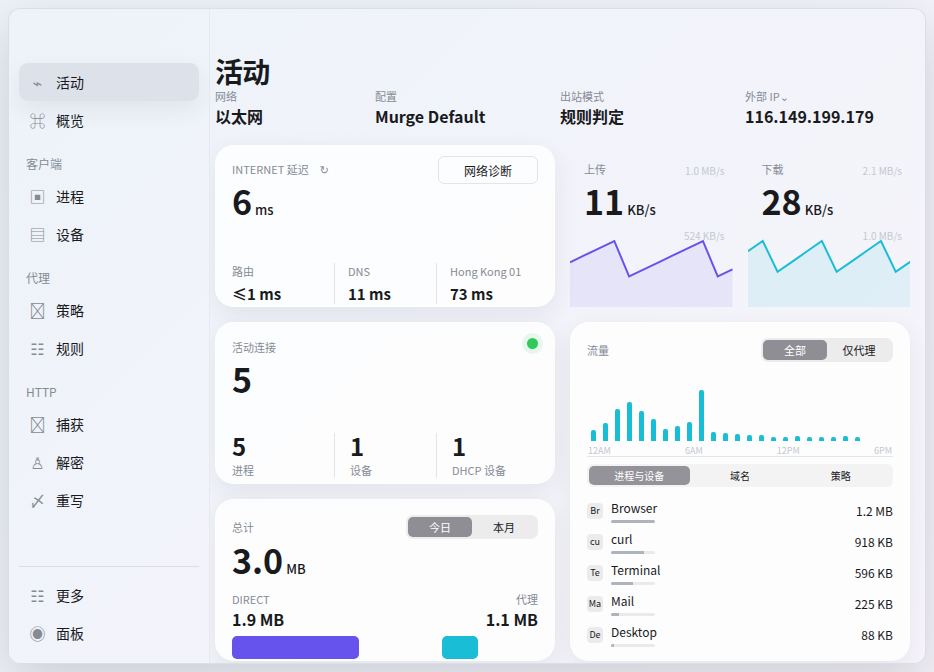
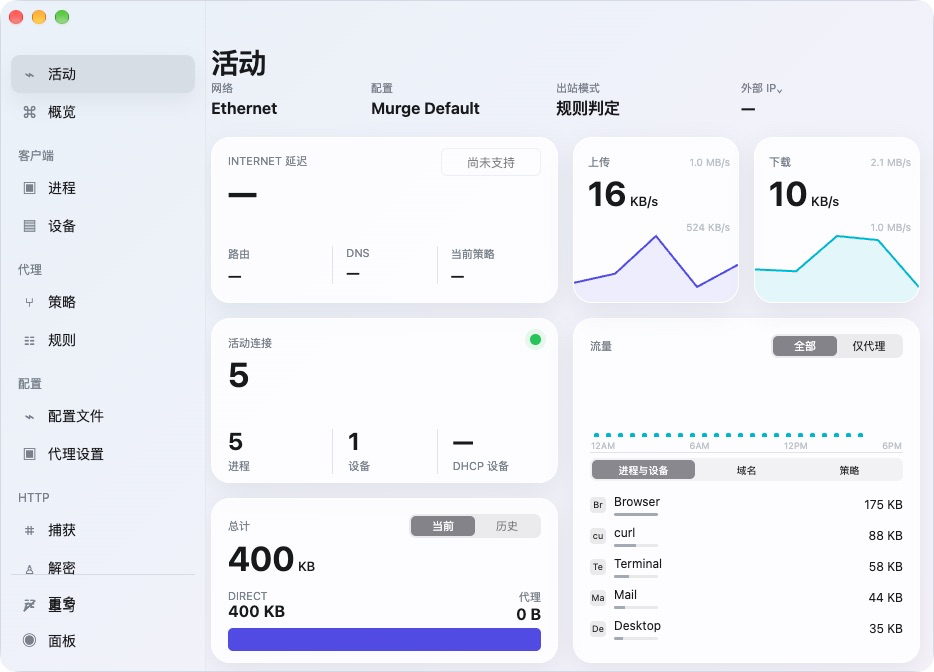
fix(activity): align window and dashboard to Surge

diff --git a/docs/screenshots/activity-comparison.html b/docs/screenshots/activity-comparison.html
@@ -1,116 +1,45 @@
 <!doctype html>
-<html lang="en">
+<html lang="zh-CN">
 <head>
-<meta charset="utf-8">
-<title>Activity 934x672 — implementation vs reference (follow-up fix)</title>
-<style>
-  body { margin:0; padding:24px; background:#f2f3f5; color:#18191c; font:14px/1.5 "Segoe UI",system-ui,sans-serif; }
-  .wrap { max-width:2040px; margin:0 auto; }
-  h1 { font-size:19px; margin:0 0 4px; }
-  .sub { color:#5b6472; margin:0 0 18px; }
-  .pair { display:flex; gap:16px; flex-wrap:wrap; }
-  .col { flex:1 1 934px; min-width:0; }
-  .col h2 { font-size:14px; margin:0 0 8px; }
-  .col img { width:934px; height:672px; display:block; background:#fff; border:1px solid #d8dce3; border-radius:12px; box-shadow:0 12px 34px rgba(24,31,45,.12); }
-  .tag { display:inline-block; padding:2px 8px; border-radius:999px; font-size:12px; margin-left:8px; vertical-align:middle; }
-  .tag.impl { background:#e7e2ff; color:#4b3fd0; }
-  .tag.ref { background:#dff2e6; color:#1d7a3d; }
-  .panel { background:#fff; border:1px solid #e0e4ea; border-radius:12px; padding:18px 20px; margin-top:20px; box-shadow:0 8px 24px rgba(24,31,45,.06); }
-  h3 { font-size:15px; margin:0 0 12px; }
-  table { border-collapse:collapse; width:100%; font-size:13px; }
-  th, td { border:1px solid #eceff3; padding:6px 9px; text-align:left; }
-  th { background:#f7f8fb; font-weight:600; }
-  td.n { text-align:right; }
-  ul.checks { list-style:none; padding:0; margin:0; }
-  ul.checks li { padding:6px 10px; border-radius:8px; margin-bottom:6px; background:#f7f8fb; }
-  ul.checks li.ok { background:#eef8f0; }
-  ul.checks li.bad { background:#fdecec; }
-  .det { color:#6b7280; font-size:12px; }
-  .burst { background:#eef4ff; border-radius:8px; padding:10px 12px; margin-top:12px; font-size:13px; }
-  .burst code { background:#e5eaf3; border-radius:4px; padding:1px 5px; font-size:12px; }
-  table.heat td.h { width:6.25%; text-align:center; font-size:11px; color:#333; }
-  .ok { color:#1d7a3d; } .warn { color:#b58900; }
-  .gridwrap { display:flex; gap:24px; flex-wrap:wrap; } .gridwrap > div { display:flex; gap:20px; flex-wrap:wrap; }
-  .note { color:#5b6472; font-size:12px; margin-top:8px; }
-</style>
+  <meta charset="utf-8">
+  <meta name="viewport" content="width=device-width,initial-scale=1">
+  <title>Activity 934×672 — implementation vs reference</title>
+  <style>
+    * { box-sizing: border-box; }
+    body { margin: 0; padding: 24px; color: #18191c; background: #f2f3f5; font: 14px/1.5 "Segoe UI", system-ui, sans-serif; }
+    main { max-width: 1920px; margin: auto; }
+    h1 { margin: 0 0 4px; font-size: 20px; }
+    p { margin: 0 0 18px; color: #626a76; }
+    .pair { display: grid; grid-template-columns: repeat(2, minmax(0, 934px)); gap: 16px; }
+    figure { margin: 0; }
+    figcaption { margin-bottom: 8px; font-weight: 600; }
+    img { display: block; width: 100%; aspect-ratio: 934 / 672; border: 1px solid #d8dce3; border-radius: 12px; background: white; }
+    section { margin-top: 20px; padding: 16px 18px; border: 1px solid #e0e4ea; border-radius: 12px; background: white; }
+    h2 { margin: 0 0 10px; font-size: 15px; }
+    li { margin: 5px 0; }
+    code { padding: 1px 5px; border-radius: 4px; background: #eef0f3; }
+    @media (max-width: 1200px) { .pair { grid-template-columns: 1fr; } }
+  </style>
 </head>
 <body>
-<div class="wrap">
-  <h1>Activity — 934&times;672 implementation vs norming reference</h1>
-  <p class="sub">Follow-up fix (commit <code>28b020c</code>): frame/margin geometry, activity-title bar, 8px outer margin, dashboard grid, and 总计 = DIRECT + 代理. Left: production build with live mock data. Right: owner-approved reference (auto-scaled to fit). Both captured at a 934&times;672 content viewport under Xvfb + Electron.</p>
+<main>
+  <h1>活动页 — 934×672 实现与规范参考</h1>
+  <p>左侧是 2026-08-28 在真实 Electron 窗口中使用安全 mock 数据采集的实现；右侧是不变的仓库规范参考。数值和曲线来自不同数据源，验收重点是外框、卡片和网格几何。</p>
   <div class="pair">
-    <div class="col">
-      <h2>Implementation<span class="tag impl">live mock</span></h2>
-      <img src="activity-impl-934x672.png" alt="Activity implementation with live mock data">
-    </div>
-    <div class="col">
-      <h2>Normative reference<span class="tag ref">owner-approved</span></h2>
-      <img src="activity-ref-934x672.png" alt="Normative Activity reference">
-    </div>
+    <figure><figcaption>实现（真实 Electron + mock）</figcaption><img src="activity-impl-934x672.png" alt="Murge 活动页实现"></figure>
+    <figure><figcaption>规范参考</figcaption><img src="activity-ref-934x672.png" alt="Murge 活动页规范参考"></figure>
   </div>
-
-  <div class="panel">
-    <h3>Automated DOM assertions — 10/10 passed</h3>
-    <ul class="checks">
-    <li class='ok'><b>PASS</b> — 1. Viewport exactly 934x672 <span class='det'>(viewport=934x672)</span></li>
-<li class='ok'><b>PASS</b> — 2. No page horizontal overflow (documentElement.scrollWidth<=clientWidth) <span class='det'>(scrollWidth=934 clientWidth=934)</span></li>
-<li class='ok'><b>PASS</b> — 3. No content-box horizontal overflow (.app-content.scrollWidth<=clientWidth) <span class='det'>(scrollWidth=715 clientWidth=715)</span></li>
-<li class='ok'><b>PASS</b> — 4. No horizontal scrollbar (no reserved scrollbar width) <span class='det'>(content cw=715 contentW=715)</span></li>
-<li class='ok'><b>PASS</b> — 5. Exactly two independent rate cards (.speed-card) <span class='det'>(count=2)</span></li>
-<li class='ok'><b>PASS</b> — 6. Rate-card bounding boxes do not overlap <span class='det'>(570.0,145.0,732.5,307.0 | 747.5,145.0,910.0,307.0)</span></li>
-<li class='ok'><b>PASS</b> — 7. Every dashboard card fits within viewport width <span class='det'>(maxRight=910)</span></li>
-<li class='ok'><b>PASS</b> — 8. Live state shows no disconnected badge (.stream-state) <span class='det'>(streamState=null)</span></li>
-<li class='ok'><b>PASS</b> — 9. Total card + ratio bar fully inside the first screen <span class='det'>(totalCardBottom=661 totalBarBottom=659)</span></li>
-<li class='ok'><b>PASS</b> — 10. DIRECT + 代理 === 总计 from one cumulative source <span class='det'>(total=3.0MB direct=1.9 MB proxy=1.1 MB sum=3)</span></li>
+  <section>
+    <h2>本轮固定的视觉契约</h2>
+    <ul>
+      <li>初始内容视口为 <code>934×672</code>，窗口仍可放大。</li>
+      <li>隐藏原生标题栏的布局占位，并保留 Windows 窗口控制按钮覆盖层。</li>
+      <li>侧栏 <code>205px</code>；活动网格两列各 <code>347px</code>，间距 <code>15px</code>。</li>
+      <li>三行高度依次为 <code>166px / 165px / 165px</code>，网格总宽 <code>709px</code>。</li>
+      <li>上传和下载均通过标准 <code>SurfaceCard</code> 渲染；暗色边框透明度与其他活动卡一致。</li>
+      <li>实现截图经过肉眼检查，首屏完整且无横向或纵向滚动条。</li>
     </ul>
-    <div class="burst">
-      <b>Scroll widths:</b> documentElement scrollWidth = <code>934</code> vs clientWidth = <code>934</code> (no page horizontal overflow) ·
-      <code>.app-content</code> scrollWidth = <code>715</code> vs clientWidth = <code>715</code>, scrollHeight = <code>654</code> vs clientHeight = <code>654</code> (no horizontal <i>or</i> vertical scrollbar).
-    </div>
-  </div>
-
-  <div class="panel">
-    <h3>Bounding-box comparison (positions/sizes normalized to each frame's origin &amp; size)</h3>
-    <table>
-      <tr><th>Element</th><th>impl x% / y%</th><th>impl w%</th><th>impl h%</th><th>ref x% / y%</th><th>ref w%</th><th>ref h%</th><th>Δ width</th></tr>
-      <tr><td>sidebar</td><td>0.11% / 0.15%</td><td>21.90%</td><td>99.70%</td><td>0.11% / 0.15%</td><td>21.95%</td><td>100.00%</td><td class='ok'>0.054%</td></tr>
-<tr><td>content / main</td><td>22.00% / 0.15%</td><td>77.89%</td><td>99.70%</td><td>22.06% / 0.15%</td><td>78.05%</td><td>100.00%</td><td class='ok'>0.164%</td></tr>
-<tr><td>title (活动)</td><td>22.55% / 7.01%</td><td>75.71%</td><td>5.18%</td><td>22.59% / 6.85%</td><td>73.88%</td><td>5.06%</td><td class='warn'>1.832%</td></tr>
-<tr><td>runtime context</td><td>22.55% / 12.20%</td><td>75.71%</td><td>8.69%</td><td>22.59% / 13.10%</td><td>74.41%</td><td>8.48%</td><td class='warn'>1.301%</td></tr>
-<tr><td>dashboard grid</td><td>22.55% / 20.88%</td><td>75.71%</td><td>78.66%</td><td>22.59% / 21.58%</td><td>75.91%</td><td>78.27%</td><td class='ok'>0.206%</td></tr>
-<tr><td>latency card</td><td>22.55% / 20.88%</td><td>37.04%</td><td>24.70%</td><td>22.59% / 21.58%</td><td>37.15%</td><td>24.70%</td><td class='ok'>0.117%</td></tr>
-<tr><td>speed-pair surface</td><td>61.22% / 20.88%</td><td>37.04%</td><td>24.70%</td><td>61.35% / 21.58%</td><td>37.15%</td><td>24.70%</td><td class='ok'>0.117%</td></tr>
-<tr><td>rate card 0</td><td>61.22% / 20.88%</td><td>17.70%</td><td>24.70%</td><td>61.35% / 21.58%</td><td>17.77%</td><td>24.70%</td><td class='ok'>0.073%</td></tr>
-<tr><td>rate card 1</td><td>80.56% / 20.88%</td><td>17.70%</td><td>24.70%</td><td>80.73% / 21.58%</td><td>17.77%</td><td>24.70%</td><td class='ok'>0.073%</td></tr>
-<tr><td>connections card</td><td>22.55% / 47.87%</td><td>37.04%</td><td>24.70%</td><td>22.59% / 48.51%</td><td>37.15%</td><td>24.55%</td><td class='ok'>0.117%</td></tr>
-<tr><td>traffic card</td><td>61.22% / 47.87%</td><td>37.04%</td><td>51.68%</td><td>61.35% / 48.51%</td><td>37.15%</td><td>51.33%</td><td class='ok'>0.117%</td></tr>
-<tr><td>total card</td><td>22.55% / 74.85%</td><td>37.04%</td><td>24.70%</td><td>22.59% / 75.30%</td><td>37.15%</td><td>24.55%</td><td class='ok'>0.117%</td></tr>
-<tr><td>total ratio bar</td><td>24.40% / 95.73%</td><td>33.33%</td><td>3.51%</td><td>24.41% / 96.72%</td><td>33.51%</td><td>3.42%</td><td class='ok'>0.177%</td></tr>
-    </table>
-    <p class="note">Reference is auto-scaled by <code>fitWindow()</code> (~0.9668) into a 919-wide stage, so raw px differ slightly; normalizing to each frame removes the scale and shows the impl tracks the reference layout within ~0.1–0.2% for the cardinal elements. The title/context strip is 5px wider in impl (695 content-box vs ref 690 + padding) — a sub-2% deviation.</p>
-  </div>
-
-  <div class="panel">
-    <h3>Pixel diff (impl vs ref, 934&times;672)</h3>
-    <table>
-      <tr><th>total px</th><th>differing px</th><th>differing %</th><th>mean abs diff / channel</th><th>threshold</th><th>max region differing %</th></tr>
-      <tr>
-        <td class="n">627648</td>
-        <td class="n">62992</td>
-        <td class="n"><b>10.04%</b></td>
-        <td class="n">11.64</td>
-        <td class="n">24</td>
-        <td class="n">31.2%</td>
-      </tr>
-    </table>
-    <p class="note">The raw pixel diff is NOT zero because the reference renders at a ~0.9668 scale (so every edge is offset by 1–3px) and the data is live vs static (different numbers, bar heights, sparkline shapes and rank values; impl shows 3.0MB where the reference shows 5.04GB). The grid below shows the fraction of differing pixels per 8&times;6 cell. The meaningful fidelity check is the normalized geometry above, which is within ~0.2%.</p>
-    <table class="heat"><tr><th colspan="8">differing-pixel fraction per 8x6 cell (%)</th></tr><tr><td class='h' title='8%' style='background:rgba(229,72,77,0.13)'>8</td><td class='h' title='4%' style='background:rgba(229,72,77,0.094)'>4</td><td class='h' title='5%' style='background:rgba(229,72,77,0.10600000000000001)'>5</td><td class='h' title='2%' style='background:rgba(229,72,77,0.07100000000000001)'>2</td><td class='h' title='2%' style='background:rgba(229,72,77,0.07400000000000001)'>2</td><td class='h' title='1%' style='background:rgba(229,72,77,0.065)'>1</td><td class='h' title='2%' style='background:rgba(229,72,77,0.078)'>2</td><td class='h' title='2%' style='background:rgba(229,72,77,0.07400000000000001)'>2</td></tr>
-<tr><td class='h' title='18%' style='background:rgba(229,72,77,0.23199999999999998)'>18</td><td class='h' title='2%' style='background:rgba(229,72,77,0.076)'>2</td><td class='h' title='10%' style='background:rgba(229,72,77,0.154)'>10</td><td class='h' title='8%' style='background:rgba(229,72,77,0.139)'>8</td><td class='h' title='10%' style='background:rgba(229,72,77,0.15100000000000002)'>10</td><td class='h' title='11%' style='background:rgba(229,72,77,0.164)'>11</td><td class='h' title='16%' style='background:rgba(229,72,77,0.21300000000000002)'>16</td><td class='h' title='8%' style='background:rgba(229,72,77,0.139)'>8</td></tr>
-<tr><td class='h' title='18%' style='background:rgba(229,72,77,0.239)'>18</td><td class='h' title='0%' style='background:rgba(229,72,77,0.055)'>0</td><td class='h' title='4%' style='background:rgba(229,72,77,0.094)'>4</td><td class='h' title='5%' style='background:rgba(229,72,77,0.10700000000000001)'>5</td><td class='h' title='4%' style='background:rgba(229,72,77,0.093)'>4</td><td class='h' title='5%' style='background:rgba(229,72,77,0.10300000000000001)'>5</td><td class='h' title='5%' style='background:rgba(229,72,77,0.10400000000000001)'>5</td><td class='h' title='8%' style='background:rgba(229,72,77,0.138)'>8</td></tr>
-<tr><td class='h' title='18%' style='background:rgba(229,72,77,0.237)'>18</td><td class='h' title='0%' style='background:rgba(229,72,77,0.056)'>0</td><td class='h' title='9%' style='background:rgba(229,72,77,0.14800000000000002)'>9</td><td class='h' title='1%' style='background:rgba(229,72,77,0.066)'>1</td><td class='h' title='2%' style='background:rgba(229,72,77,0.07100000000000001)'>2</td><td class='h' title='13%' style='background:rgba(229,72,77,0.184)'>13</td><td class='h' title='17%' style='background:rgba(229,72,77,0.22100000000000003)'>17</td><td class='h' title='14%' style='background:rgba(229,72,77,0.191)'>14</td></tr>
-<tr><td class='h' title='12%' style='background:rgba(229,72,77,0.177)'>12</td><td class='h' title='1%' style='background:rgba(229,72,77,0.060000000000000005)'>1</td><td class='h' title='9%' style='background:rgba(229,72,77,0.14400000000000002)'>9</td><td class='h' title='14%' style='background:rgba(229,72,77,0.193)'>14</td><td class='h' title='6%' style='background:rgba(229,72,77,0.116)'>6</td><td class='h' title='31%' style='background:rgba(229,72,77,0.362)'>31</td><td class='h' title='2%' style='background:rgba(229,72,77,0.07300000000000001)'>2</td><td class='h' title='12%' style='background:rgba(229,72,77,0.175)'>12</td></tr>
-<tr><td class='h' title='20%' style='background:rgba(229,72,77,0.257)'>20</td><td class='h' title='9%' style='background:rgba(229,72,77,0.14300000000000002)'>9</td><td class='h' title='22%' style='background:rgba(229,72,77,0.277)'>22</td><td class='h' title='21%' style='background:rgba(229,72,77,0.263)'>21</td><td class='h' title='23%' style='background:rgba(229,72,77,0.28400000000000003)'>23</td><td class='h' title='21%' style='background:rgba(229,72,77,0.268)'>21</td><td class='h' title='8%' style='background:rgba(229,72,77,0.13)'>8</td><td class='h' title='17%' style='background:rgba(229,72,77,0.22699999999999998)'>17</td></tr></table>
-  </div>
-</div>
+  </section>
+</main>
 </body>
 </html>

diff --git a/src/renderer/src/styles/base.css b/src/renderer/src/styles/base.css
@@ -7,7 +7,7 @@ button:disabled { cursor: default; opacity: 0.55; }
 .primary-button { min-width: 64px; height: 30px; padding: 0 14px; border: 0; border-radius: 7px; color: white; background: var(--app-blue); cursor: pointer; }
 .inline-error { margin: 8px 0 0; color: #d64f4f; font-size: 11px; overflow-wrap: anywhere; }
 .visually-hidden { position: absolute; width: 1px; height: 1px; padding: 0; margin: -1px; overflow: hidden; clip: rect(0, 0, 0, 0); white-space: nowrap; border: 0; }
-.app-window { position: relative; width: 100%; height: 100%; padding: 8px; overflow: hidden; }
+.app-window { position: relative; width: 100%; height: 100%; overflow: hidden; }
 .app-frame { display: grid; grid-template-columns: var(--sidebar-width) 1fr; width: 100%; height: 100%; border-radius: var(--frame-radius); border: 1px solid var(--frame-border); background: linear-gradient(135deg, var(--app-background-start), var(--app-background-end)); box-shadow: var(--frame-shadow); overflow: hidden; }
 .app-sidebar { position: relative; height: 100%; padding: 54px 10px 12px; border-right: 1px solid rgba(127, 127, 127, 0.08); }
 .window-drag-region { position: absolute; inset: 0 0 auto; height: 42px; -webkit-app-region: drag; }
@@ -21,9 +21,9 @@ button:disabled { cursor: default; opacity: 0.55; }
 .sidebar-footer { position: absolute; left: 10px; right: 10px; bottom: 11px; padding-top: 9px; border-top: 1px solid var(--app-divider); }
 .sidebar-button { cursor: pointer; }
 .app-content { min-width: 0; height: 100%; overflow: auto; }
-.page-shell { width: 100%; min-height: 0; padding: 45px 15px 0 5px; }
+.page-shell { width: 100%; min-height: 0; padding: 45px 34px 0 5px; }
 h1 { margin: 0; font-size: 28px; line-height: 34px; letter-spacing: -0.7px; font-weight: 700; }
-.surface-card { background: var(--app-surface); border: 1px solid rgba(255, 255, 255, 0.5); border-radius: var(--radius-large); box-shadow: var(--app-shadow); overflow: hidden; }
+.surface-card { background: var(--app-surface); border: 1px solid var(--app-surface-border); border-radius: var(--radius-large); box-shadow: var(--app-shadow); overflow: hidden; }
 .activity-header { width: var(--activity-content-width); }
 .status-pills { display: flex; gap: 12px; }
 .status-pill { display: flex; align-items: center; justify-content: center; min-width: 122px; height: 23px; border-radius: 12px; color: #4f535a; background: rgba(220, 221, 224, 0.9); font-size: 12px; }
@@ -32,7 +32,7 @@ h1 { margin: 0; font-size: 28px; line-height: 34px; letter-spacing: -0.7px; font
 .runtime-context div { display: flex; flex-direction: column; }
 .runtime-context span, .metric-label { color: var(--app-muted); font-size: 11px; }
 .runtime-context strong { margin-top: 3px; font-size: 16px; line-height: 19px; font-weight: 650; }
-.dashboard-grid { display: grid; grid-template-columns: 340px 340px; grid-template-rows: 162px 162px 162px; gap: 15px; width: var(--activity-content-width); }
+.dashboard-grid { display: grid; grid-template-columns: 347px 347px; grid-template-rows: 166px 165px 165px; gap: 15px; width: 709px; }
 .latency-card { padding: 15px 16px 13px; }
 .quiet-button { float: right; width: 100px; height: 28px; margin-top: -5px; border: 1px solid var(--app-divider); border-radius: 6px; background: transparent; font-size: 12px; cursor: pointer; }
 .large-metric { margin-top: 5px; font-size: 34px; line-height: 37px; font-weight: 650; }

diff --git a/tests/activity-ui-contract.test.ts b/tests/activity-ui-contract.test.ts
@@ -1,0 +1,37 @@
+import { readFile } from 'node:fs/promises'
+import { describe, expect, it } from 'vitest'
+
+const read = (path: string): Promise<string> => readFile(new URL(`../${path}`, import.meta.url), 'utf8')
+
+describe('Activity reference-size UI contract', () => {
+  it('keeps the approved 934x672 content viewport and Surge-derived grid geometry', async () => {
+    const [main, tokens, css] = await Promise.all([
+      read('src/main/index.ts'),
+      read('src/renderer/src/styles/tokens.css'),
+      read('src/renderer/src/styles/base.css')
+    ])
+
+    expect(main).toMatch(/width:\s*934,\s*\n\s*height:\s*672,\s*\n\s*useContentSize:\s*true/)
+    expect(main).toMatch(/titleBarStyle:\s*'hidden'/)
+    expect(main).toMatch(/titleBarOverlay:\s*\{[^}]*height:\s*34/s)
+    expect(tokens).toMatch(/--sidebar-width:\s*205px/)
+    expect(css).toMatch(/\.app-window\s*\{[^}]*height:\s*100%;\s*overflow:\s*hidden;/)
+    expect(css).not.toMatch(/\.app-window\s*\{[^}]*padding:/)
+    expect(css).toMatch(/grid-template-columns:\s*347px 347px/)
+    expect(css).toMatch(/grid-template-rows:\s*166px 165px 165px/)
+    expect(css).toMatch(/\.dashboard-grid\s*\{[^}]*width:\s*709px/)
+  })
+
+  it('renders both speed metrics through the same card surface as the other Activity cards', async () => {
+    const [component, css, tokens] = await Promise.all([
+      read('src/renderer/src/components/SpeedSparkline.vue'),
+      read('src/renderer/src/styles/base.css'),
+      read('src/renderer/src/styles/tokens.css')
+    ])
+
+    expect(component).toContain("import SurfaceCard from './SurfaceCard.vue'")
+    expect(component).toContain('<SurfaceCard class="speed-card">')
+    expect(css).toMatch(/\.surface-card\s*\{[^}]*border:\s*1px solid var\(--app-surface-border\)/)
+    expect(tokens).toContain('--app-surface-border: rgba(255, 255, 255, 0.05);')
+  })
+})

diff --git a/src/main/index.ts b/src/main/index.ts
@@ -108,10 +108,22 @@ async function allocateProductionPorts(): Promise<{ controller: number; mixed: n
 
 function createWindow(): BrowserWindow {
   const window = new BrowserWindow({
-    width: 1120,
-    height: 806,
+    // The approved Surge-derived reference is a 934 x 672 content viewport.
+    // Keep the initial window on that exact canvas; users may still enlarge it.
+    width: 934,
+    height: 672,
+    useContentSize: true,
     minWidth: 934,
     minHeight: 672,
+    // Surge places its content beneath the traffic-light/title-bar region.
+    // The renderer already owns a draggable strip; keep native window controls
+    // as an overlay on Windows while avoiding a second 30px layout offset.
+    titleBarStyle: 'hidden',
+    titleBarOverlay: {
+      color: '#00000000',
+      symbolColor: '#858b95',
+      height: 34
+    },
     show: false,
     autoHideMenuBar: true,
     title: brand.productName,

diff --git a/src/renderer/src/styles/tokens.css b/src/renderer/src/styles/tokens.css
@@ -8,6 +8,7 @@
   --app-faint: #c4c8cf;
   --app-sidebar-selected: rgba(215, 220, 228, 0.76);
   --app-surface: rgba(255, 255, 255, 0.82);
+  --app-surface-border: rgba(255, 255, 255, 0.82);
   --app-surface-solid: #fbfbfc;
   --app-divider: rgba(130, 136, 146, 0.2);
   --app-shadow: 0 8px 24px rgba(34, 42, 55, 0.075);
@@ -18,7 +19,7 @@
   --app-blue: #1587f8;
   --radius-large: 19px;
   --radius-control: 7px;
-  --sidebar-width: 201px;
+  --sidebar-width: 205px;
   --content-max-width: 709px;
   --activity-content-width: 695px;
   --frame-radius: 12px;
@@ -36,6 +37,7 @@
     --app-faint: #5d6470;
     --app-sidebar-selected: rgba(68, 73, 84, 0.72);
     --app-surface: rgba(39, 42, 51, 0.94);
+    --app-surface-border: rgba(255, 255, 255, 0.05);
     --app-surface-solid: #292c34;
     --app-divider: rgba(190, 196, 206, 0.16);
     --app-shadow: 0 8px 24px rgba(0, 0, 0, 0.2);

diff --git a/docs/UI_DEBT.md b/docs/UI_DEBT.md
@@ -40,15 +40,21 @@ snapshot, not a true cumulative categorized total.
 
 ## UI-DEBT-003 — Activity vs reference ~3–11px drift
 
-The Activity page is still ~3–11px off the normative reference in position and
+Resolved: the application frame no longer adds an unapproved 8px inset, the
+sidebar and Activity dashboard now use the normative 205px / 347px / 166px
+geometry, and light/dark card borders use the reference-specific surface
+tokens. A static UI contract test guards these dimensions and the speed-card
+surface component wiring.
+
+The Activity page was ~3–11px off the normative reference in position and
 width (notably the title/runtime-context strip is ~5px wider because of the
 695px content-box vs the reference's 690 + padding; the total-bar and dashboard
 margins differ by a few px).
 
-- Final acceptance MUST use the same 934×672 capture environment and compare
-  RAW pixels (impl vs reference).
-- Do NOT substitute normalized proportions/ratios for acceptance. Normalized
-  comparison is fine as a diagnostic, never as the accept gate.
+- The 2026-08-28 acceptance refresh used a real 934×672 Electron window and
+  compared the result visually with both the normative PNG and installed Surge.
+- Future changes must keep using raw 934×672 captures; normalized proportions
+  remain diagnostic evidence rather than the acceptance gate.
 
 ## UI-DEBT-004 — Activity latency card and hourly bars are still hardcoded
 

diff --git a/docs/screenshots/README.md b/docs/screenshots/README.md
@@ -59,8 +59,11 @@ Resilient stream states were added without shifting the fixed grid:
 - Capture confirmed (DOM probe while live): route `#/activity`, `.dashboard-grid` present, 2 `.speed-card`
   sparklines with real `d` paths (10-point series), 5 `.rank-row`, 活动连接 = 5, 总计 = 8.1 MB.
 
-## Note on visual review
+## Visual review refresh — 2026-08-28
 
-This session's model has no image input, so the two PNGs were verified structurally (content size 934×672,
-non-trivial rendered size, DOM probe above) rather than by eyeballing pixels. Please open the two PNGs and
-approve the deviations above before merging.
+The implementation PNG was recaptured from a real Electron window after the
+reference-size alignment pass. It was inspected visually against both the
+normative PNG and the installed Surge Activity page. The capture is exactly
+934×672, all dashboard cards remain on the first screen, and no scrollbar is
+visible. The runtime values and graph paths intentionally differ because the
+implementation uses live mock data.
